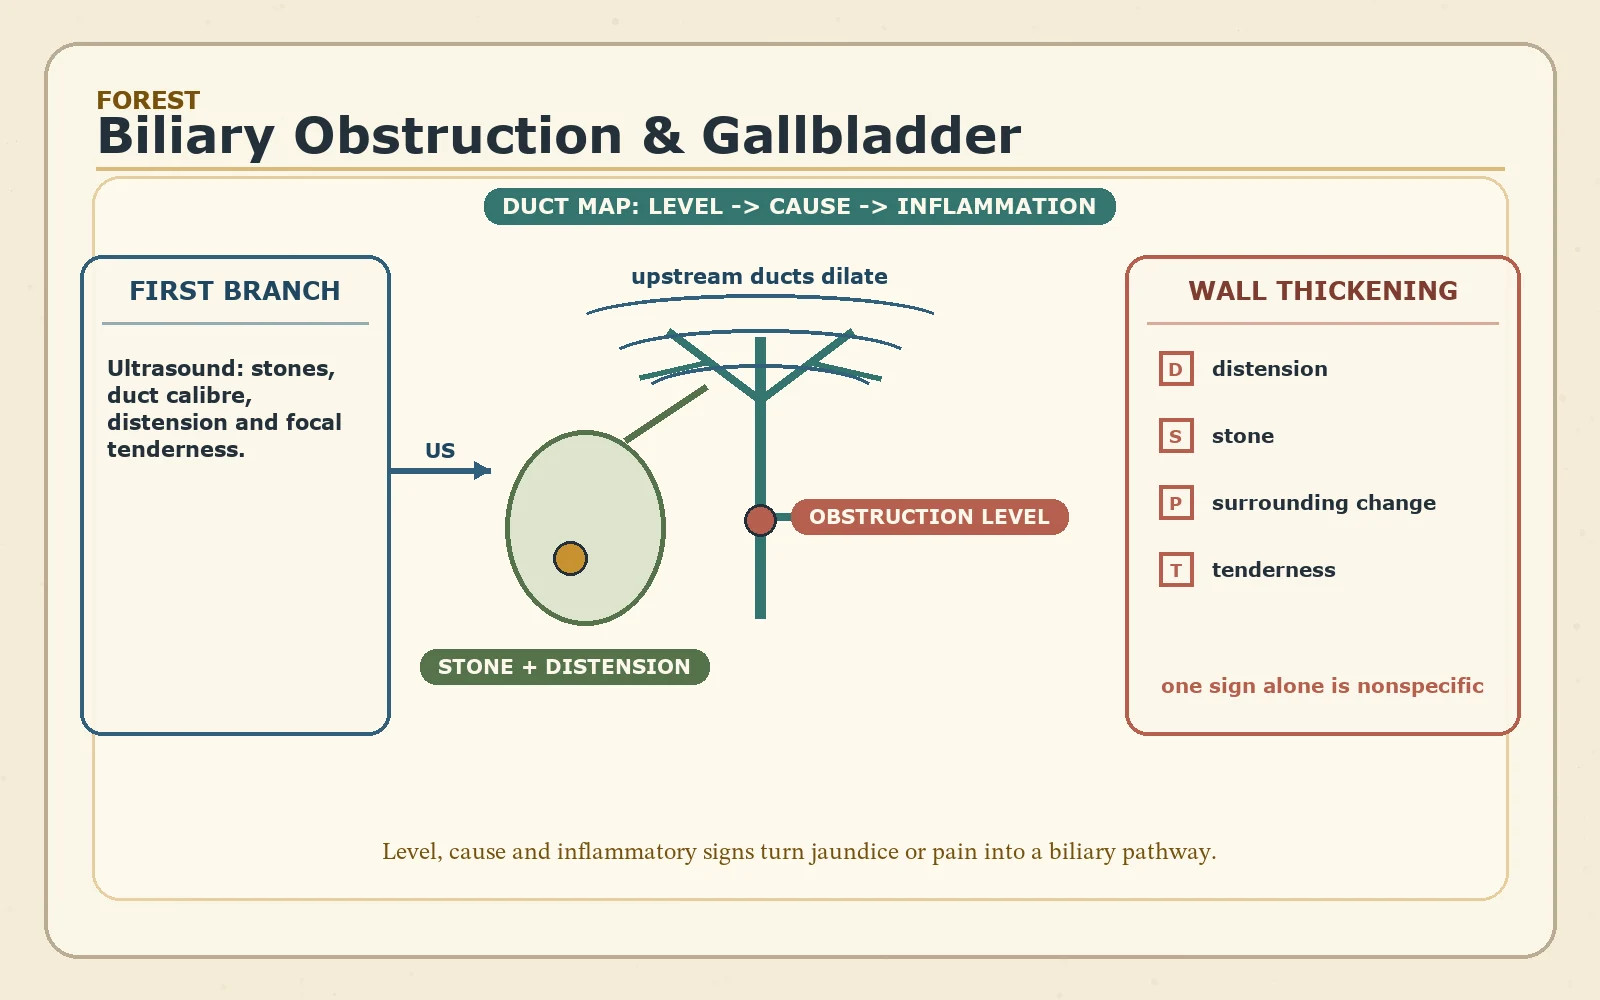
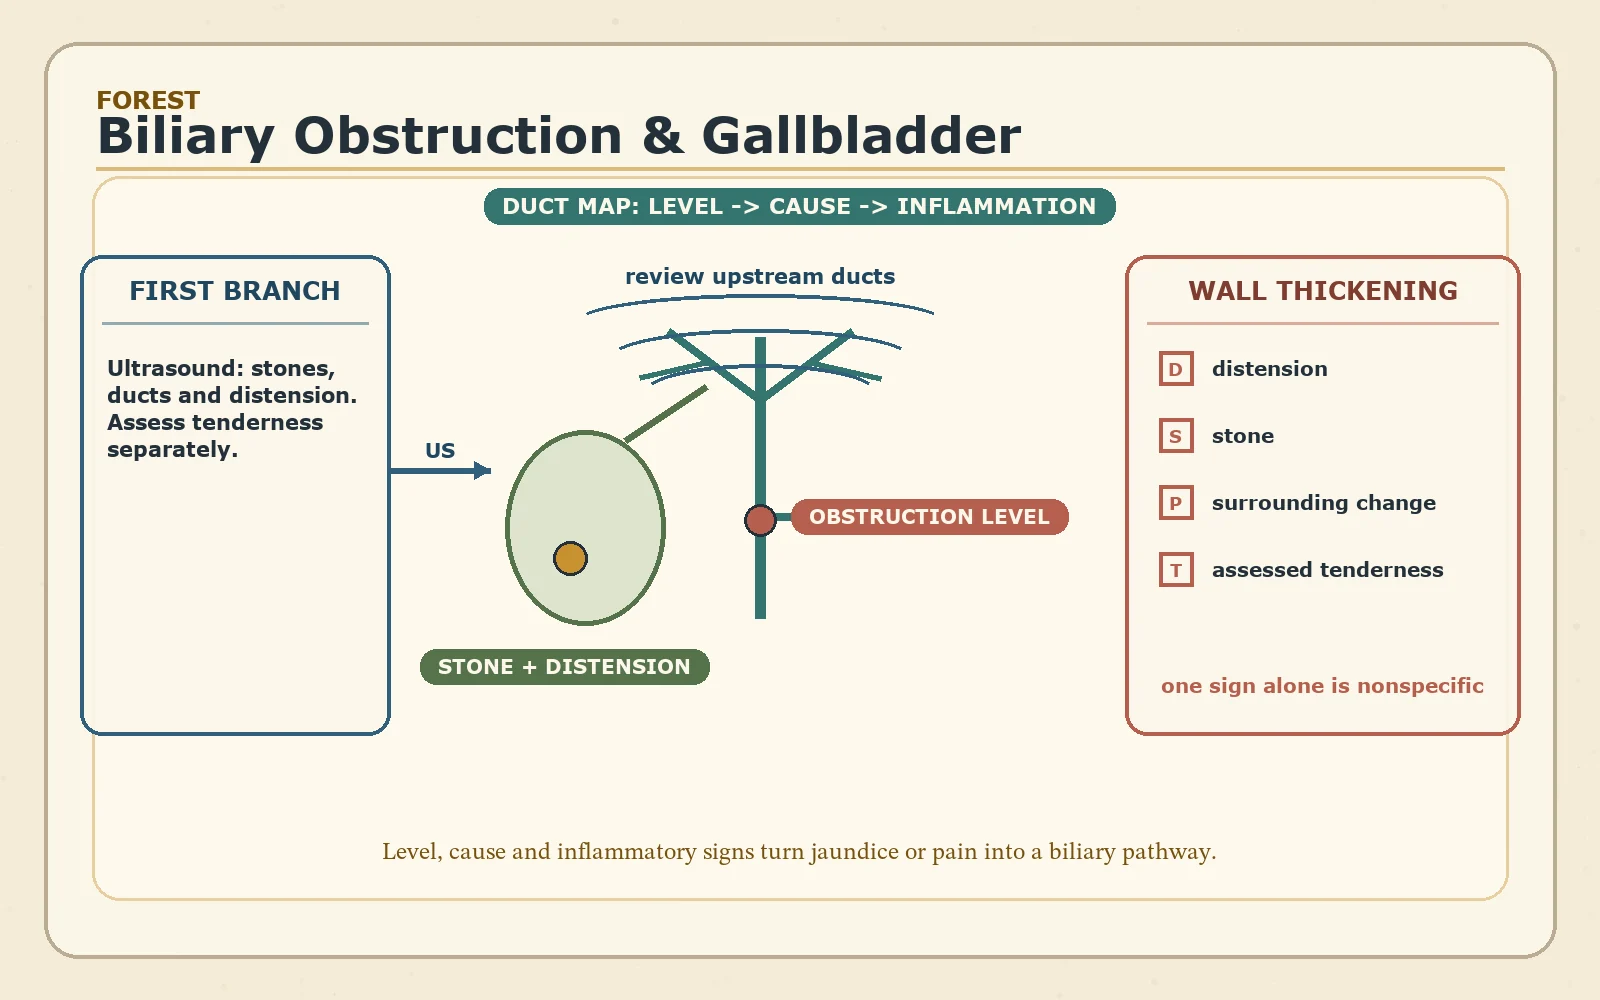
Qualify shared biliary wall-pattern guidance and align lesson schematic with actual assessment

Changed region(s): [[0.0625, 0.372, 0.2188, 0.465], [0.4062, 0.248, 0.5625, 0.31], [0.75, 0.558, 0.9062, 0.589]]

diff --git a/tests/test_biliary_lesson_clinical_boundaries.py b/tests/test_biliary_lesson_clinical_boundaries.py
@@ -1,0 +1,30 @@
+"""The shared lesson must not turn a suggestive wall pattern into universal cancer clearance."""
+from primer.curriculum import Curriculum
+from primer.radiology_catalog import detail, resolve
+
+
+def test_adenomyomatosis_assessment_retains_whole_lesion_and_coexistence_limits():
+    node=Curriculum().nodes['rad.5.biliary']; ref=node['reference']
+    assert 'coexisting or mimicking malignancy' in ref['approach'][3]['detail']
+    assert 'name it and stop' not in str(ref['classify'])
+    assert 'uncertainty or suspicious/coexisting features' in ref['classify']['rows'][1][2]
+    assert 'do not delay urgent assessment' in ref['classify']['note']
+    assert 'universal cancer exclusion' in node['quiz'][7]['explain']
+    assert node['quiz'][7]['answer'] in node['quiz'][7]['choices']
+
+
+def test_shared_template_does_not_invent_tenderness_mobility_or_doppler_assessment():
+    ref=Curriculum().nodes['rad.5.biliary']['reference']
+    template=ref['template']
+    assert 'not assessed, unreliable or not applicable' in template
+    assert 'not assessed or limited' in template
+    assert 'Wall Doppler assessment: [not performed / adequate / limited]' in template
+    assert 'Twinkling artefact distinguished from flow' in template
+    assert 'Thickness alone is not a diagnosis' in ref['measure'][0]['cutoff']
+
+
+def test_actual_reader_references_include_both_published_differential_reviews():
+    ref=detail(Curriculum(),resolve('ra.ultrasound-gallbladder'))['radiology_reference']
+    urls={r['url'] for r in ref['reporting']['sources']}
+    assert {'https://doi.org/10.1007/s13244-017-0544-7','https://doi.org/10.1259/bjr.20220115'} <= urls
+    assert any('single comet-tail artefact does not exclude' in p for p in ref['reporting']['pitfalls'])

diff --git a/tools/radiology_illustrations/abdomen_breast_detail.py b/tools/radiology_illustrations/abdomen_breast_detail.py
@@ -351,17 +351,17 @@ def _render_biliary(plate: RadiologyPlate,
     for y, width in ((322, 185), (357, 150), (392, 116)):
         plate.draw.arc((760 - width, y - 28, 760 + width, y + 28),
                        200, 340, fill=BLUE, width=4)
-    plate.text((760, 275), "upstream ducts dilate", size=21, bold=True,
+    plate.text((760, 275), "review upstream ducts", size=21, bold=True,
                fill=_text_tone(BLUE), anchor="mm")
 
     left = _panel(plate, (80, 255, 390, 735), "FIRST BRANCH", BLUE)
     _note(plate, (left[0] + 5, left[1] + 5, left[2] - 5, left[1] + 120),
-          "Ultrasound: stones, duct calibre, distension and focal tenderness.",
+          "Ultrasound: stones, ducts and distension. Assess tenderness separately.",
           size=21, bold=True)
     _arrow(plate, (390, 470), (490, 470), "US", BLUE)
     right = _panel(plate, (1125, 255, 1520, 735), "WALL THICKENING", CORAL)
     conditions = (("distension", "D"), ("stone", "S"),
-                  ("surrounding change", "P"), ("tenderness", "T"))
+                  ("surrounding change", "P"), ("assessed tenderness", "T"))
     for index, (label, code) in enumerate(conditions):
         y = right[1] + 25 + index * 67
         plate.draw.rectangle((right[0] + 12, y - 17,

diff --git a/tools/radiology_illustrations/specs.py b/tools/radiology_illustrations/specs.py
@@ -277,9 +277,9 @@ _RECORDS: List[Dict[str, object]] = [
       headings=("CHOOSE TEST", "COMBINE EVIDENCE", "COMPLICATION")),
     R("rad.5.biliary", "compare", "abdomen",
       "Level, cause and inflammatory signs turn jaundice or pain into a biliary pathway.",
-      I("Start with ultrasound", "Stones, duct calibre and tenderness answer the first branch.", "biliary-stones"),
-      I("Locate obstruction", "Upstream duct dilatation points to the obstructed level.", "biliary-obstruction"),
-      I("Separate inflammation", "Wall thickening needs distension, stones and surrounding signs.", "biliary-inflammation")),
+      I("Start with ultrasound", "Assess stones and ducts on images; document actual tenderness separately.", "biliary-stones"),
+      I("Locate obstruction", "Review duct distribution and the actual transition, including unassessed regions.", "biliary-obstruction"),
+      I("Separate inflammation", "Interpret wall findings with acquisition quality and clinical context.", "biliary-inflammation")),
     R("rad.5.bowel-ischaemia", "compare", "abdomen",
       "Mechanism and contrast phase explain why ischaemic bowel can enhance differently.",
       I("Arterial", "Occlusion and poor enhancement support reduced inflow.", "ischaemia"),

diff --git a/tests/test_gallbladder_fidelity_requirements.py b/tests/test_gallbladder_fidelity_requirements.py
@@ -48,5 +48,5 @@ def test_unassessed_tenderness_is_not_prefilled_as_a_negative_murphy_sign():
     assert 'Sonographic Murphy sign negative' not in str(step['normal'])
     assert 'Static images cannot prove tenderness response' in step['tip']
     assert 'diameter alone does not establish hydrops' in ref['walkthrough']['steps'][1]['look']
-    assert len(ref['reporting']['sources']) == 3
+    assert len(ref['reporting']['sources']) == 5
     assert any('histological layers' in p for p in ref['reporting']['pitfalls'])

diff --git a/docs/biliary-lesson-clinical-boundaries.md b/docs/biliary-lesson-clinical-boundaries.md
@@ -1,0 +1,13 @@
+# Shared biliary lesson: wall-pattern and clinical boundaries
+
+The shared `rad.5.biliary` lesson previously said that comet-tail reverberation meant “adenomyomatosis, not cancer” and told the reader to “name it and stop.” That contradicted the newly acquired differential examples and the source reviews' discussion of uncertainty and coexisting carcinoma. It also supplied a generic no-cholecystectomy verdict for systemic wall oedema and lacked unassessed/not-applicable tenderness and unperformed Doppler choices in its template.
+
+The reference approach, classification table, pitfalls, reporting template and associated quiz now preserve whole-lesion intramural spaces, layer/tissue integrity and hepatic interfaces. A suggestive artefact is not a universal cancer exclusion. Confidently characterized benign disease is distinguished from uncertain, symptomatic or suspicious/coexisting findings without introducing a new universal operative algorithm. Systemic oedema does not prove the absence of primary gallbladder disease. The wall threshold remains conventional measurement context, not a diagnostic or severity test.
+
+The template explicitly retains actual/limited/unperformed position-change, tenderness and Doppler assessment. Twinkling artefact is separated from true flow. Fasting/repeat-examination advice no longer suggests delaying urgent assessment. Stricture length and shape remain observations with overlapping causes rather than a universal diagnostic cutoff.
+
+These changes were checked against [Bonatti et al., 2017](https://doi.org/10.1007/s13244-017-0544-7) and [Riddell et al., published 2022 / issue 2023](https://doi.org/10.1259/bjr.20220115). Both source reviews are now delivered with the actual gallbladder reader references. Their scope and dates remain explicit; this is not a complete current polyp-management, surgical or endocrine guideline reconciliation.
+
+The owned reasoning schematic was regenerated at both responsive sizes. It now asks for actual tenderness assessment separately, reviews upstream ducts instead of implying inevitable dilatation, and interprets wall findings with acquisition/clinical context. The 1600 px rendering was directly inspected for label readability and layout. Its conceptual shapes provide no source anatomical or fine wall/duct coverage credit.
+
+Verification: 168 focused scope/reference/reader/walkthrough/visual tests passed. All 96 clinical lessons and 198 responsive WebPs passed the illustration check. The bank audit reported zero problems across 19 files. Local lesson and gallbladder reader APIs returned 200 and delivered the qualified reference/template and five source references. Scope and reporting contract fingerprints are refreshed. No representation approval, complete shared-lesson reconciliation, model validation or production deployment is claimed. The complete radiology goal remains active and incomplete.

diff --git a/docs/radiology-clinical-grade-goal.md b/docs/radiology-clinical-grade-goal.md
@@ -304,3 +304,7 @@ All nine [gallbladder source figures](gallbladder-published-source-review.md) no
 ### 4 October 2026 — original gallbladder cine-source investigation
 
 [Gallbladder dynamic-source review](gallbladder-dynamic-source-review.md) preserves an original CC BY-SA 4.0 clip with matching provider size/SHA-1 and all 150 decoded frame timestamps/hashes. A 0.134-second final interval and unrepresented nominal slots are retained without interpolation. Native-browser playback reached the end but reported one dropped frame, so no lossless screen presentation or motion calibration is claimed. The displayed LLD label and changing sections do not establish repositioning, stone mobility, compression, tenderness or flow; all such approval flags remain false. A separate recent peer-reviewed supplementary-video route retains unresolved publisher access. Thirteen focused checks passed; no clip or clinical coverage is promoted. The complete goal remains active.
+
+### 4 October 2026 — shared biliary lesson wall-pattern boundaries
+
+[Shared biliary lesson review](biliary-lesson-clinical-boundaries.md) removes universal comet-tail cancer exclusion, name-it-and-stop and systemic-oedema operative verdicts. The reference/quiz/template retain whole-lesion assessment, coexisting/suspicious disease and unassessed tenderness/mobility or unperformed Doppler fields. The regenerated schematic separates actual tenderness from images and avoids inevitable-upstream-dilatation wording. 168 focused checks, bank/illustration checks and local API assertions passed. Full lesson/management and fine anatomical validation remain unfinished; no coverage or clinical approval is granted and the original goal scope remains intact.
